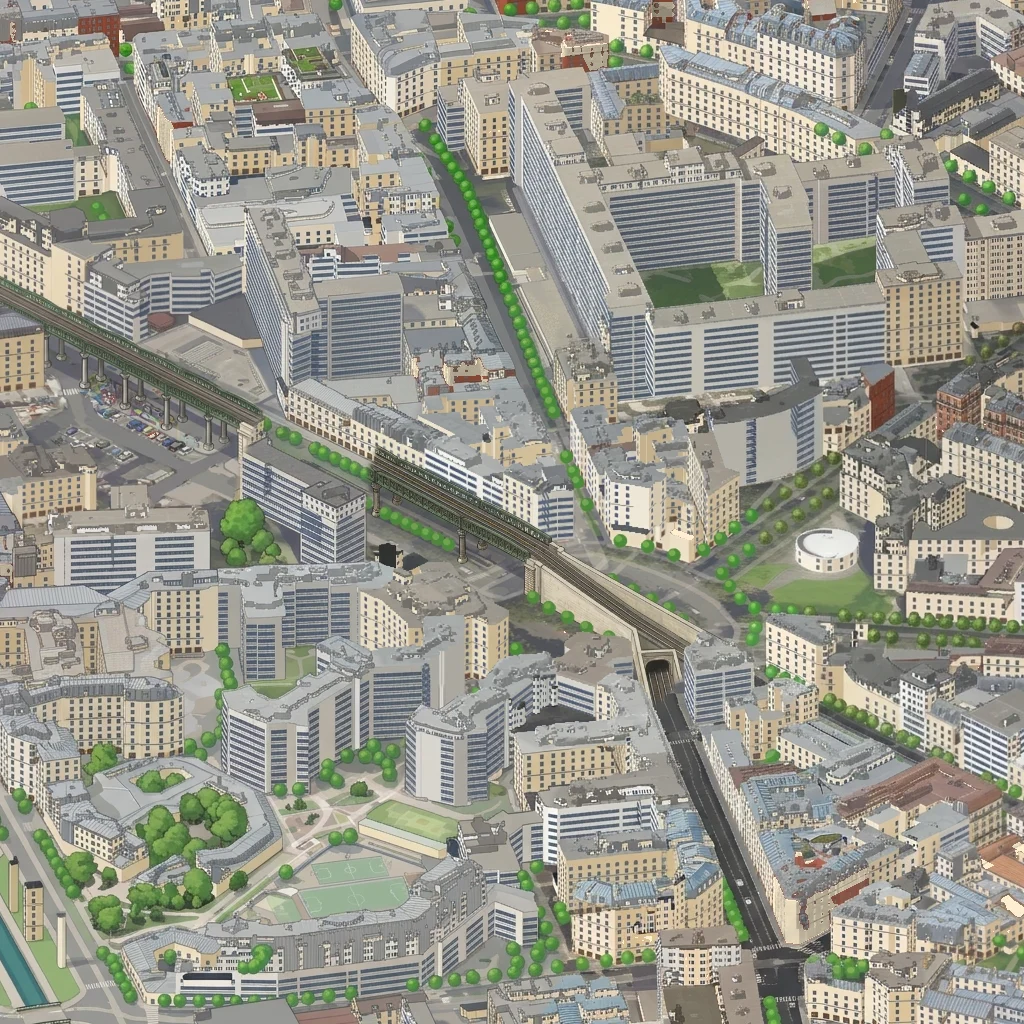
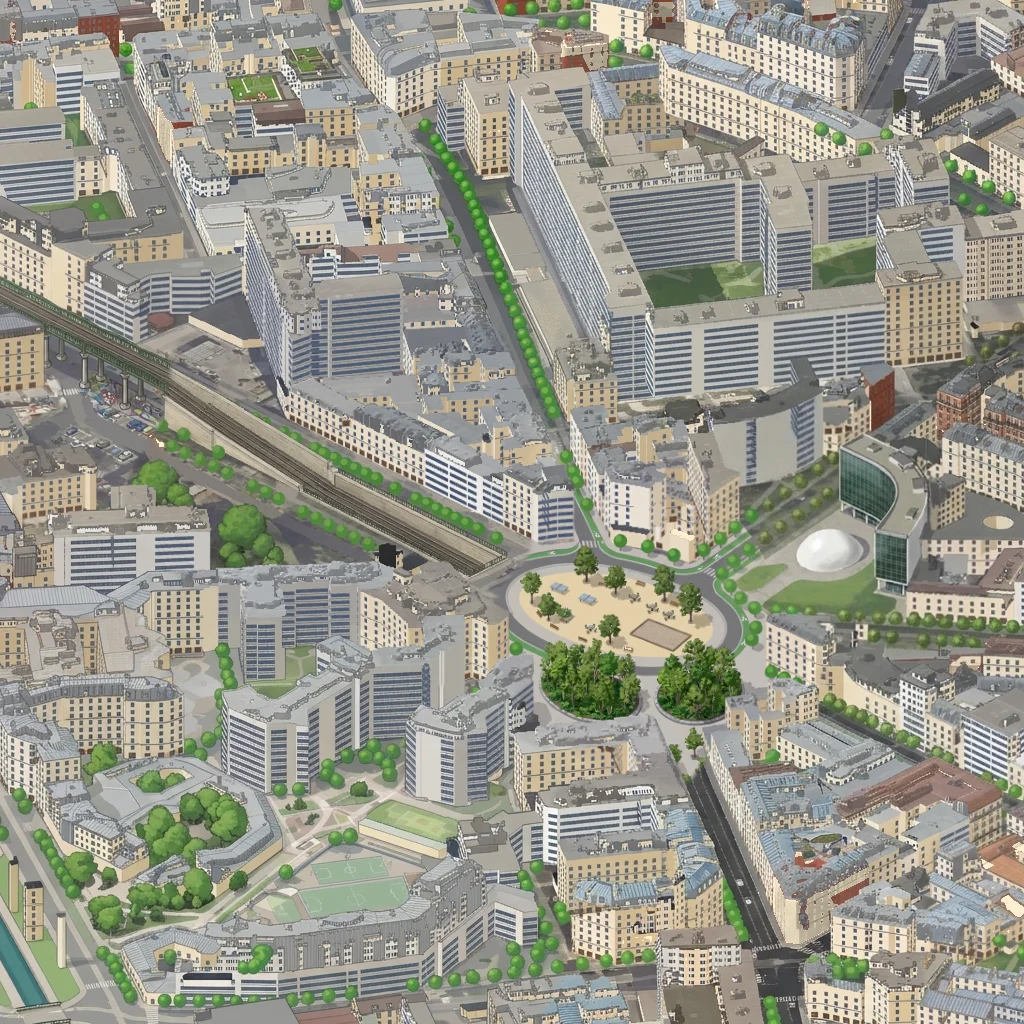
Colonel Fabien as rebuilt in 2026 (the urban forest square), Niemeyer's Communist Party headquarters with its glass wave and white dome, and métro ramps that slope from viaduct to tunnel mouth instead of lying flat

Changed region(s): [[0.125, 0.25, 0.9375, 0.7812]]

diff --git a/src/model.ts b/src/model.ts
@@ -197,6 +197,55 @@ export function makeLane(flat: Float64Array, half: number, major: boolean, kind:
   return { pts: flat, zs, cum, len: cum[n - 1], half, major, kind, a: key(0), b: key(n - 1) };
 }
 
+/** A stretch longer than this between a viaduct and a tunnel really is at street level. */
+const RAMP_MAX = 400;
+/** Track depth at a tunnel mouth, where a ramp ends: just below the open trench. */
+const MOUTH = -5;
+
+/**
+ * Heights with the ramps put in. Where a line comes off a viaduct and dives
+ * into a tunnel, OSM tags neither the stretch between (an embankment, then a
+ * trench), which would leave the track flat at street level; slope it
+ * evenly from the viaduct down to the tunnel mouth instead. Lines are split
+ * into several ways, so the viaduct or tunnel may be in the next one.
+ * Line 1's bridges (the Arsenal basin, the Pont de Neuilly) are at street
+ * level, not viaducts: it goes straight from them into its tunnels.
+ */
+export function rampHeights(metro: { line: string; p: ArrayLike<number>; z: number[] }[], k: number): number[][] {
+  // Every bridge and tunnel vertex, for the way that carries on from a run's end: the nearest within 10 m.
+  const tagged: [number, number, number][] = [];
+  for (const m of metro) if (m.line !== "1") m.z.forEach((z, i) => z && tagged.push([m.p[i * 2] / k, m.p[i * 2 + 1] / k, z]));
+  const next = (p: ArrayLike<number>, i: number) => {
+    let best: number | undefined, d0 = 10;
+    for (const [x, y, z] of tagged) {
+      const d = Math.hypot(x - p[i * 2] / k, y - p[i * 2 + 1] / k);
+      if (d < d0) [best, d0] = [z, d];
+    }
+    return best;
+  };
+  return metro.map((m) => {
+    const z = [...m.z], n = z.length;
+    if (m.line === "1") return z;
+    const cum = [0];
+    for (let i = 1; i < n; i++) cum.push(cum[i - 1] + Math.hypot(m.p[i * 2] - m.p[i * 2 - 2], m.p[i * 2 + 1] - m.p[i * 2 - 1]) / k);
+    for (let a = 0; a < n; a++) {
+      if (z[a]) continue;
+      let b = a;
+      while (b + 1 < n && !z[b + 1]) b++;
+      // The ends of the flat run: the vertex before and after it, or the
+      // run's own end vertex if another way carries on from there.
+      const lo = a > 0 ? a - 1 : a, hi = b < n - 1 ? b + 1 : b;
+      const zl = a > 0 ? z[a - 1] : next(m.p, a), zh = b < n - 1 ? z[b + 1] : next(m.p, b);
+      if (zl && zh && zl * zh < 0 && cum[hi] - cum[lo] < RAMP_MAX) {
+        const from = Math.max(zl, MOUTH), to = Math.max(zh, MOUTH);
+        for (let i = lo; i <= hi; i++) z[i] = from + ((to - from) * (cum[i] - cum[lo])) / (cum[hi] - cum[lo]);
+      }
+      a = b;
+    }
+    return z;
+  });
+}
+
 /** Ramps between tunnel, ground and viaduct heights over ~60 m. */
 function smoothHeights(flat: Float64Array, zs: number[]) {
   const lane = makeLane(flat, 0, false, "metro");
@@ -271,6 +320,8 @@ const MONUMENT_KINDS = new Set([
 /** Landmarks whose data would mislead the classifier. */
 const STYLE_OVERRIDES: Record<string, { style: Style; roof: RoofKind }> = {
   "Gare du Nord": { style: "stone", roof: "glass" },
+  // Niemeyer's 1971 glass curtain wall and white dome; undated in BD TOPO, so it would be stone.
+  "Siège du Parti communiste français": { style: "modern", roof: "flat" },
   // The 1863 iron-and-glass market hall; BD TOPO dates it to its 2014 restoration.
   "Carreau du Temple": { style: "stone", roof: "glass" },
   "Cité des Sciences et de l'Industrie": { style: "recent", roof: "glass" },
@@ -748,9 +799,10 @@ export async function loadWorld(url: string, onProgress?: (f: number) => void): 
     for (const e of [lane.a, lane.b]) walkJunctions.set(e, [...(walkJunctions.get(e) ?? []), id]);
   }
   const greens = raw.parks.flatMap((p) => p.r.slice(0, 1).map((ring) => ({ kind: p.k, ring: Float64Array.from(ring, (v) => v / k) })));
-  const metro = (raw.metro ?? []).map((m) => {
+  const ramps = rampHeights(raw.metro ?? [], k);
+  const metro = (raw.metro ?? []).map((m, i) => {
     const flat = Float64Array.from(m.p, (v) => v / k);
-    return makeLane(flat, 0, true, "metro", smoothHeights(flat, m.z));
+    return makeLane(flat, 0, true, "metro", smoothHeights(flat, ramps[i]));
   });
 
   const trees = Float64Array.from(raw.trees, (v) => v / k);

diff --git a/tests/unit/tracks.test.ts b/tests/unit/tracks.test.ts
@@ -1,5 +1,5 @@
 import { describe, expect, it } from "vitest";
-import { makeLane } from "../../src/model";
+import { makeLane, rampHeights } from "../../src/model";
 import { trackPieces } from "../../src/tracks";
 
 /** A straight line 400 m long whose height changes every 100 m. */
@@ -34,5 +34,22 @@ describe("métro structures", () => {
   it("covers the line without gaps above the tunnel", () => {
     const xs = pieces.map((p) => p.x).sort((a, b) => a - b);
     for (let i = 1; i < xs.length; i++) expect(xs[i] - xs[i - 1]).toBeLessThanOrEqual(8.01);
+  });
+});
+
+describe("ramps", () => {
+  // A line in metres (scale 1): viaduct, 200 m untagged, tunnel, in two ways meeting at x = 100.
+  const way = (line: string, xs: number[], z: number[]) => ({ line, p: xs.flatMap((x) => [x, 0]), z });
+  it("slopes the untagged stretch from the viaduct down to the tunnel mouth, across ways", () => {
+    const [viaduct, rest] = rampHeights([way("2", [0, 50, 100], [7, 7, 7]), way("2", [100, 200, 300, 400], [0, 0, -12, -12])], 1);
+    expect(viaduct).toEqual([7, 7, 7]);
+    expect(rest[0]).toBe(7);
+    expect(rest[1]).toBeCloseTo(1);
+    expect(rest[2]).toBe(-5);
+    expect(rest[3]).toBe(-12);
+  });
+  it("leaves line 1, and long street-level stretches, alone", () => {
+    expect(rampHeights([way("1", [0, 100, 200], [7, 0, -12])], 1)[0]).toEqual([7, 0, -12]);
+    expect(rampHeights([way("6", [0, 300, 600], [7, 0, -12])], 1)[0]).toEqual([7, 0, -12]);
   });
 });
